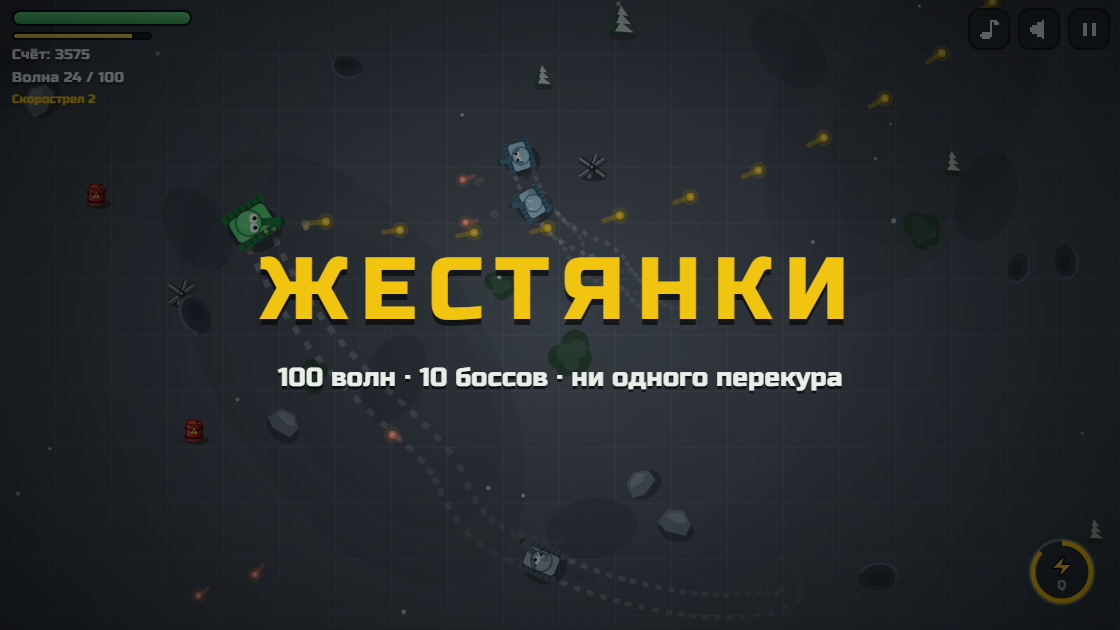
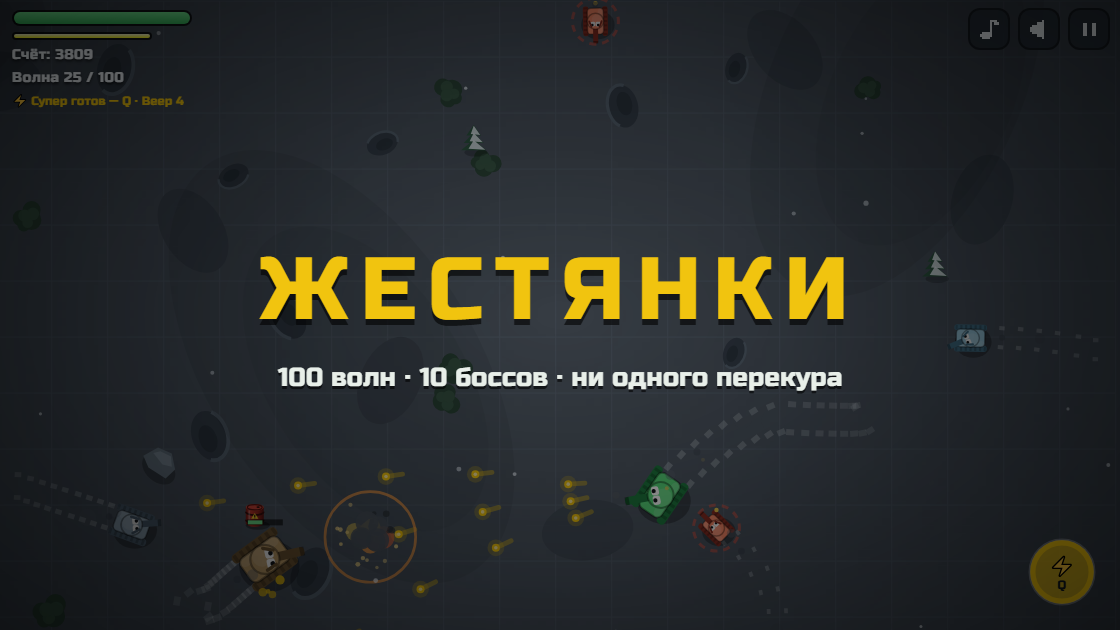
Обложка Яндекса пересобрана; анимация иконки без движущегося ствола
На старой обложке в углу HUD читалось «Тройной 6» — кадр снят до
переименования. Заодно в съёмке гасим объявление волны: крупное «ВОЛНА 26»
ложилось прямо на название.

tools/vk-art.js → tools/store-art.js: он теперь делает картинки не только
для ВК, но и обложку Яндекса, накладка с названием вынесена в общую
функцию и считает кегль от ширины кадра.

Анимированная иконка ВК: ствол больше не водит из стороны в сторону.
Он ходил поверх морды, и для игры 6+ движущееся орудие на экране загрузки —
лишний акцент. Теперь бегают зрачки, корпус тихо дышит. Варианты «ствол»
и «круг» остались в скрипте для сравнения.

diff --git a/tools/store-art.js b/tools/store-art.js
@@ -1,7 +1,11 @@
-// Картинки для вкладки «Оформление» в кабинете ВК.
-// Запуск: node tools/vk-art.js   → ВК/оформление/*.png
-//   большой сниппет  1120×630
-//   скриншоты        1200×600, минимум три, ВК показывает их на экране запуска в вебе
+// Витринные картинки для площадок — снимаем с настоящей игры.
+// Запуск: node tools/store-art.js            → всё сразу
+//         node tools/store-art.js snippet    → только сниппет ВК
+//         node tools/store-art.js cover      → только обложка Яндекса
+//   ВК/оформление/snippet-1120x630.png  большой сниппет
+//   ВК/оформление/screen-*.png          скриншоты 1200×600, минимум три,
+//                                       ВК показывает их на экране запуска в вебе
+//   Яндекс/cover_800x470.png            обложка игры в каталоге Яндекса
 // Снимаем с настоящей игры, как tools/shots.js, но в НАСТОЛЬНОМ режиме: без эмуляции
 // телефона, иначе поверх боя рисуются джойстик и кнопка огня, а ВК просит десктопный вид.
 // Боем правит бот: кружит вокруг цели, подбирает ящики, уворачивается от пуль.
@@ -69,10 +73,15 @@ async function shootScene(pg, s, file){
   await pg.waitForTimeout(1200);
   let best = -1, bestN = null;
   for(let i = 0; i < 22; i++){
-    const n = await pg.evaluate(() => ({
-      e: enemies.filter(x => !x.entering).length, b: bullets.length, p: particles.length,
-      boss: !!(boss && !boss.entering), play: state.mode === 'play'
-    }));
+    const n = await pg.evaluate(() => {
+      // объявление волны крупными буквами посреди экрана лезет на название
+      // и на сам бой — гасим его на каждом тике, кадр нужен чистый
+      try { if(typeof waveBanner !== 'undefined' && waveBanner) waveBanner.t = 0; } catch(e) {}
+      return {
+        e: enemies.filter(x => !x.entering).length, b: bullets.length, p: particles.length,
+        boss: !!(boss && !boss.entering), play: state.mode === 'play'
+      };
+    });
     const m = n.play ? n.e*2 + n.b + n.p*0.02 + (n.boss ? 8 : 0) : -1;
     if(m > best){ best = m; bestN = n; await pg.screenshot({ path: file }); }
     await pg.waitForTimeout(420);
@@ -90,14 +99,31 @@ async function openPage(b, width, height){
   return pg;
 }
 
-// `node tools/vk-art.js snippet` — пересобрать только сниппет, не гоняя все скриншоты
+// Название поверх кадра — им отличается витринная картинка от простого скриншота.
+// Кегль считаем от ширины, чтобы обложка 800 и сниппет 1120 выглядели одинаково.
+// Вешаем ДО съёмки: накладка статична, бой под ней продолжает жить, и цикл
+// «лучшего кадра» снимает её вместе с боем.
+const nazvanie = (W) => {
+  const sh = s => Math.round(s * W / 1120);
+  const d = document.createElement('div');
+  d.style.cssText = 'position:fixed;inset:0;z-index:9999;pointer-events:none;display:flex;'
+    + 'flex-direction:column;align-items:center;justify-content:center;'
+    + 'background:radial-gradient(ellipse at center,rgba(0,0,0,.34),rgba(0,0,0,.66))';
+  const F = "font-family:'Russo One',system-ui,sans-serif;";
+  d.innerHTML = `<div style="${F}font-size:${sh(88)}px;letter-spacing:${sh(12)}px;`
+    + `color:#f1c40f;text-shadow:0 ${sh(6)}px 0 rgba(0,0,0,.6)">ЖЕСТЯНКИ</div>`
+    + `<div style="${F}font-size:${sh(26)}px;color:#e8efe9;margin-top:${sh(18)}px;`
+    + `text-shadow:0 ${sh(3)}px 0 rgba(0,0,0,.6)">100 волн · 10 боссов · ни одного перекура</div>`;
+  document.body.appendChild(d);
+};
+
 const ONLY = process.argv[2] || '';
 
 (async () => {
   const b = await chromium.launch(LAUNCH);
 
   // ——— скриншоты 1200×600
-  if(ONLY !== 'snippet'){
+  if(ONLY === ''){
   const pg = await openPage(b, 1200, 600);
   for(const s of BATTLES){
     const file = path.join(OUT, s.file + '.png');
@@ -115,26 +141,25 @@ const ONLY = process.argv[2] || '';
   await pg.close();
   }
 
-  // ——— большой сниппет 1120×630: кадр боя с названием поверх, как обложка на Яндексе
+  // ——— большой сниппет ВК 1120×630: кадр боя с названием поверх
+  if(ONLY === '' || ONLY === 'snippet'){
   const pg2 = await openPage(b, 1120, 630);
   const snip = path.join(OUT, 'snippet-1120x630.png');
-  // накладку вешаем ДО съёмки: она статична, а бой под ней продолжает жить,
-  // и цикл «лучшего кадра» снимает её вместе с боем
-  await pg2.evaluate(() => {
-    const d = document.createElement('div');
-    d.style.cssText = 'position:fixed;inset:0;z-index:9999;pointer-events:none;display:flex;'
-      + 'flex-direction:column;align-items:center;justify-content:center;'
-      + 'background:radial-gradient(ellipse at center,rgba(0,0,0,.34),rgba(0,0,0,.66))';
-    d.innerHTML = '<div style="font-family:\'Russo One\',system-ui,sans-serif;font-size:88px;'
-      + 'letter-spacing:12px;color:#f1c40f;text-shadow:0 6px 0 rgba(0,0,0,.6)">ЖЕСТЯНКИ</div>'
-      + '<div style="font-family:\'Russo One\',system-ui,sans-serif;font-size:26px;'
-      + 'color:#e8efe9;margin-top:18px;text-shadow:0 3px 0 rgba(0,0,0,.6)">'
-      + '100 волн · 10 боссов · ни одного перекура</div>';
-    document.body.appendChild(d);
-  });
+  await pg2.evaluate(nazvanie, 1120);
   const r = await shootScene(pg2, { wave: 24, score: 3400 }, snip);
   console.log(`snippet-1120x630  волна 24 · врагов ${r.bestN.e} · пуль ${r.bestN.b} · вес ${r.best.toFixed(1)}`);
   await pg2.close();
+  }
+
+  // ——— обложка Яндекса 800×470: то же самое, только меньше и в свою папку
+  if(ONLY === '' || ONLY === 'cover'){
+  const pg3 = await openPage(b, 800, 470);
+  const cover = path.join(__dirname, '..', 'Яндекс', 'cover_800x470.png');
+  await pg3.evaluate(nazvanie, 800);
+  const rc = await shootScene(pg3, { wave: 24, score: 3400 }, cover);
+  console.log(`cover_800x470  волна 24 · врагов ${rc.bestN.e} · пуль ${rc.bestN.b} · вес ${rc.best.toFixed(1)}`);
+  await pg3.close();
+  }
 
   await b.close();
 })();

diff --git a/tools/vk-lottie-check.js b/tools/vk-lottie-check.js
@@ -6,42 +6,55 @@ const { chromium, LAUNCH } = require('./pw');
 const path = require('path');
 const fs = require('fs');
 
-const JSON_PATH = path.join(__dirname, '..', 'ВК', 'оформление', 'launch-icon.json');
+// Можно передать несколько файлов — каждый ляжет своей строкой, удобно сравнивать варианты:
+//   node tools/vk-lottie-check.js a.json b.json c.json
+const FILES = process.argv.slice(2);
+if(!FILES.length) FILES.push(path.join(__dirname, '..', 'ВК', 'оформление', 'launch-icon.json'));
 const PLAYER = path.join(__dirname, '..', 'node_modules', 'lottie-web', 'build', 'player', 'lottie.min.js');
+const KADROV = 6; // столько моментов петли показываем в строке
 
 (async () => {
-  const anim = fs.readFileSync(JSON_PATH, 'utf8');
+  const anims = FILES.map(f => ({ name: path.basename(f, '.json'), data: fs.readFileSync(f, 'utf8') }));
   const player = fs.readFileSync(PLAYER, 'utf8');
 
   const b = await chromium.launch(LAUNCH);
-  const pg = await b.newPage({ viewport: { width: 4 * 96, height: 96 }, deviceScaleFactor: 2 });
+  const pg = await b.newPage({
+    viewport: { width: KADROV * 96 + 150, height: anims.length * 96 }, deviceScaleFactor: 2
+  });
   const errs = []; pg.on('pageerror', e => errs.push(e.message));
 
   // фон ставим тот же, что пойдёт в поле «Цвет фона за иконкой» — проверяем заодно и его
-  await pg.setContent('<body style="margin:0;background:#181D23;display:flex">'
-    + [0, 1, 2, 3].map(i => `<div id="c${i}" style="width:96px;height:96px"></div>`).join('')
+  await pg.setContent('<body style="margin:0;background:#181D23;font:13px system-ui;color:#8fa">'
+    + anims.map((a, r) => '<div style="display:flex;align-items:center">'
+        + [...Array(KADROV)].map((_, i) => `<div id="c${r}_${i}" style="width:96px;height:96px"></div>`).join('')
+        + `<div style="padding-left:14px">${a.name}</div></div>`).join('')
     + '</body>');
   await pg.addScriptTag({ content: player });
-  await pg.evaluate(({ anim }) => {
-    const data = JSON.parse(anim);
-    window.__frames = data.op;
-    [0, 1, 2, 3].forEach(i => {
-      const a = lottie.loadAnimation({
-        container: document.getElementById('c' + i), renderer: 'svg',
-        loop: false, autoplay: false, animationData: JSON.parse(anim)
-      });
-      a.goToAndStop(Math.round(data.op * i / 4), true);
+  const got = await pg.evaluate(({ anims, KADROV }) => {
+    let figur = 0;
+    anims.forEach((a, r) => {
+      const data = JSON.parse(a.data);
+      for(let i = 0; i < KADROV; i++){
+        const an = lottie.loadAnimation({
+          container: document.getElementById(`c${r}_${i}`), renderer: 'svg',
+          loop: false, autoplay: false, animationData: JSON.parse(a.data)
+        });
+        an.goToAndStop(Math.round(data.op * i / KADROV), true);
+      }
     });
-  }, { anim });
+    figur = document.querySelectorAll('svg path, svg ellipse, svg rect').length;
+    return { svgs: document.querySelectorAll('svg').length, figur };
+  }, { anims, KADROV });
   await pg.waitForTimeout(600);
 
-  const svgs = await pg.evaluate(() => [...document.querySelectorAll('svg')].length);
-  const paths = await pg.evaluate(() => [...document.querySelectorAll('svg path, svg ellipse, svg rect')].length);
-  await pg.screenshot({ path: path.join(__dirname, 'lottie-check.png') });
+  const out = path.join(__dirname, 'lottie-check.png');
+  await pg.screenshot({ path: out });
   await b.close();
 
-  console.log('кадров в петле:', await Promise.resolve(60));
-  console.log('отрисовано svg:', svgs, '· фигур внутри:', paths);
+  console.log('строк:', anims.length, '· отрисовано svg:', got.svgs, '· фигур внутри:', got.figur);
   console.log('ошибки:', errs.length ? errs : 'нет');
-  if(svgs !== 4 || paths === 0) { console.log('ПЛОХО: проигрыватель не собрал анимацию'); process.exit(1); }
+  console.log('картинка:', out);
+  if(got.svgs !== anims.length * KADROV || got.figur === 0){
+    console.log('ПЛОХО: проигрыватель не собрал анимацию'); process.exit(1);
+  }
 })();

diff --git a/tools/vk-lottie.py b/tools/vk-lottie.py
@@ -1,16 +1,25 @@
 # Анимированная иконка для «Экрана запуска» в кабинете ВК.
-# Запуск: python tools/vk-lottie.py   → ВК/оформление/launch-icon.json
+# Запуск: python tools/vk-lottie.py [вариант] [куда.json]
+#   по умолчанию: вариант «глаза» → ВК/оформление/launch-icon.json
 # Требования ВК: Lottie JSON, 96×96, не больше 24 КБ.
-# Рисуем тот же танк, что на иконке, вид сверху; башня медленно водит стволом
-# из стороны в сторону — это и есть «состояние загрузки». Цвета сняты пипеткой
-# с icon-512.png, чтобы анимация и статичная иконка были одним и тем же танком.
+# Рисуем тот же танк, что на иконке, вид сверху; цвета сняты пипеткой с icon-512.png,
+# чтобы анимация и статичная иконка были одним и тем же танком.
+#
+# Варианты движения:
+#   глаза — зрачки бегают из стороны в сторону, танк тихо дышит. Ствол неподвижен:
+#           игра детская, 6+, и водящее стволом орудие на экране загрузки — лишнее.
+#   круг  — танк медленно поворачивается кругом, как радар.
+#   ствол — башня водит стволом; первый вариант, оставлен для сравнения.
 import json, os, sys
 
 try: sys.stdout.reconfigure(encoding='utf-8')
 except Exception: pass
 
 ROOT = os.path.dirname(os.path.dirname(os.path.abspath(__file__)))
-OUT = os.path.join(ROOT, 'ВК', 'оформление', 'launch-icon.json')
+VARIANT = sys.argv[1] if len(sys.argv) > 1 else 'глаза'
+OUT = sys.argv[2] if len(sys.argv) > 2 else os.path.join(ROOT, 'ВК', 'оформление', 'launch-icon.json')
+if VARIANT not in ('глаза', 'круг', 'ствол'):
+    sys.exit('вариант: глаза | круг | ствол')
 
 def rgb(h):
     h = h.lstrip('#')
@@ -46,43 +55,60 @@ def group(shapes, color):
 # рисунка смещена вверх; опускаем слой и ужимаем, иначе дуло срезает верхний край
 CENTR, MASHTAB = [48, 58, 0], 95
 
-def layer(ind, name, shapes, rot=None):
-    r = {"a": 0, "k": 0} if rot is None else rot
+def layer(ind, name, shapes, rot=None, pos=None, scale=None):
     return {"ddd": 0, "ind": ind, "ty": 4, "nm": name, "sr": 1, "ao": 0,
-            "ks": {"o": {"a": 0, "k": 100}, "r": r,
-                   "p": {"a": 0, "k": CENTR}, "a": {"a": 0, "k": [0, 0, 0]},
-                   "s": {"a": 0, "k": [MASHTAB, MASHTAB, 100]}},
+            "ks": {"o": {"a": 0, "k": 100},
+                   "r": rot or {"a": 0, "k": 0},
+                   "p": pos or {"a": 0, "k": CENTR},
+                   "a": {"a": 0, "k": [0, 0, 0]},
+                   "s": scale or {"a": 0, "k": [MASHTAB, MASHTAB, 100]}},
             "shapes": shapes, "ip": 0, "op": DUR, "st": 0, "bm": 0}
 
-# ствол ведёт влево-вправо и возвращается — петля без рывка на стыке
+# петли строим так, чтобы последний кадр совпадал с первым — иначе на стыке рывок
 EASE_I, EASE_O = {"x": [0.4], "y": [1]}, {"x": [0.6], "y": [0]}
-SWEEP = {"a": 1, "k": [
-    {"t": 0,      "s": [-24], "i": EASE_I, "o": EASE_O},
-    {"t": DUR//2, "s": [24],  "i": EASE_I, "o": EASE_O},
-    {"t": DUR,    "s": [-24]},
-]}
+
+def tuda_syuda(a, b, key='s'):
+    """Туда и обратно за петлю, с замедлением на краях."""
+    return {"a": 1, "k": [
+        {"t": 0,      key: list(a), "i": EASE_I, "o": EASE_O},
+        {"t": DUR//2, key: list(b), "i": EASE_I, "o": EASE_O},
+        {"t": DUR,    key: list(a)},
+    ]}
+
+SWEEP = tuda_syuda([-24], [24])                                  # ствол влево-вправо
+KRUG  = {"a": 1, "k": [{"t": 0, "s": [0], "i": {"x": [0.5], "y": [0.5]},
+                        "o": {"x": [0.5], "y": [0.5]}}, {"t": DUR, "s": [360]}]}
+VZGLYAD = tuda_syuda([CENTR[0] - 3.5, CENTR[1], 0], [CENTR[0] + 3.5, CENTR[1], 0])
+DYSHIT  = tuda_syuda([MASHTAB - 3, MASHTAB - 3, 100], [MASHTAB, MASHTAB, 100])
+
+rot_vse  = KRUG if VARIANT == 'круг' else None                   # крутится весь танк
+rot_stvl = SWEEP if VARIANT == 'ствол' else rot_vse
+dyshit   = DYSHIT if VARIANT == 'глаза' else None
+vzglyad  = VZGLYAD if VARIANT == 'глаза' else None
 
 # в Lottie первая фигура в списке лежит СВЕРХУ, поэтому зрачки идут раньше белков
-glaza  = layer(1, 'глаза', [
-    group([circle(7, (-6, -5)),  circle(7, (10, -5))], ZRACHOK),
-    group([circle(15, (-8, -7)), circle(15, (8, -7))], BELY),
-])
-bashnya = layer(2, 'башня', [
+zrachki = layer(1, 'зрачки', [group([circle(7, (-6, -5)), circle(7, (10, -5))], ZRACHOK)],
+                rot=rot_vse, pos=vzglyad, scale=dyshit)
+belki   = layer(2, 'белки',  [group([circle(15, (-8, -7)), circle(15, (8, -7))], BELY)],
+                rot=rot_vse, scale=dyshit)
+bashnya = layer(3, 'башня', [
     group([rect((11, 40), (0, -26), 5)], TEMNY),
     group([circle(11, (0, -46))], ZOLOTO),
-], rot=SWEEP)
-korpus = layer(3, 'корпус', [group([rect((36, 58), (0, 2), 13)], ZELEN)])
-guseni = layer(4, 'гусеницы', [
+], rot=rot_stvl, scale=dyshit)
+korpus = layer(4, 'корпус', [group([rect((36, 58), (0, 2), 13)], ZELEN)],
+               rot=rot_vse, scale=dyshit)
+guseni = layer(5, 'гусеницы', [
     group([rect((12, 58), (-17, 2), 5), rect((12, 58), (17, 2), 5)], TEMNY),
-])
+], rot=rot_vse, scale=dyshit)
 
 doc = {"v": "5.7.4", "fr": FR, "ip": 0, "op": DUR, "w": 96, "h": 96,
-       "nm": "zhestyanki-launch", "ddd": 0, "assets": [],
-       "layers": [glaza, bashnya, korpus, guseni]}
+       "nm": "zhestyanki-launch-" + VARIANT, "ddd": 0, "assets": [],
+       "layers": [zrachki, belki, bashnya, korpus, guseni]}
 
 os.makedirs(os.path.dirname(OUT), exist_ok=True)
 with open(OUT, 'w', encoding='utf-8') as f:
     json.dump(doc, f, separators=(',', ':'), ensure_ascii=False)
 
 size = os.path.getsize(OUT)
-print(f'launch-icon.json  96x96  {size/1024:.1f} КБ  (лимит ВК 24 КБ) — {"ок" if size < 24*1024 else "СЛИШКОМ БОЛЬШОЙ"}')
+print(f'{os.path.basename(OUT):22} вариант «{VARIANT}»  96x96  {size/1024:.1f} КБ '
+      f'(лимит ВК 24 КБ) — {"ок" if size < 24*1024 else "СЛИШКОМ БОЛЬШОЙ"}')

diff --git a/ROADMAP.md b/ROADMAP.md
@@ -89,6 +89,10 @@
   место, где осталось старое имя бонуса; поле карточки «Как играть» юзер поправил сам
   (оно живёт у Яндекса, в архиве его нет, перезаливки не требует).
 
+Отдельно от архива: **обложка `Яндекс/cover_800x470.png` пересобрана 09.10** — на старой
+в углу HUD читалось «Тройной 6», и поверх кадра лежало объявление «ВОЛНА 26». Новую
+надо залить в карточку руками, это поле карточки, а не файл архива.
+
 **ВК** — приложение создано юзером:
 
 - id **54811952**, адрес `app54811952`, тип «Игра», жанр «Аркады», слоган «Твой танк против
@@ -145,6 +149,10 @@
 | `tools/sfx-ab.js`, `sfx-ab2.js`, `sfx-set.js`, `sfx-bright.js` | рендерят WAV «было/стало» и степени яркости; игру не трогают |
 | `tools/story-video.js` | записывает сравнение версий заставки одним роликом |
 | `tools/story-demo.js` | записывает заставки выбранных глав с заданным скином |
+| `tools/store-art.js` | витринные картинки с настоящей игры: сниппет ВК 1120×630, скриншоты 1200×600, обложка Яндекса 800×470. Снимает в настольном режиме (в телефонном поверх боя рисуется джойстик), гасит объявление волны, выбирает самый «живой» кадр |
+| `tools/vk-icons.py` | иконки ВК 576/278/150/32 из `icon-512.png` |
+| `tools/vk-lottie.py` | анимированная иконка 96×96 для экрана запуска ВК, три варианта движения |
+| `tools/vk-lottie-check.js` | прогоняет Lottie настоящим проигрывателем и раскладывает кадры петли в картинку: кривой JSON площадка примет молча |
 
 `Звуки-образцы/` — mp3 из Battle City для **замеров**, лежат локально и в репозиторий не идут:
 звуки из чужих игр мы не используем, только измеряем их характеристики.

diff --git a/ВК/оформление/README.md b/ВК/оформление/README.md
@@ -2,7 +2,7 @@
 
 Кабинет: <https://dev.vk.ru/ru/admin/app-settings/54811952/design>.
 Всё в этой папке собрано скриптами, пересобрать: `python tools/vk-icons.py`,
-`node tools/vk-art.js`, `python tools/vk-lottie.py`.
+`node tools/store-art.js`, `python tools/vk-lottie.py`.
 
 ## Вкладка «Иконки»
 
@@ -58,13 +58,21 @@
 
 | Поле ВК | Значение |
 |---|---|
-| Анимированная иконка | `launch-icon.json` — Lottie, 96×96, 3.2 КБ при лимите 24 КБ |
+| Анимированная иконка | `launch-icon.json` — Lottie, 96×96, 4.3 КБ при лимите 24 КБ |
 | Анимация иконки | включить тумблер, иначе анимация не заработает |
 | Цвет фона за иконкой | `#181D23` |
 
-Анимация — тот же танк, ствол медленно водит из стороны в сторону, петля на две секунды.
+Анимация — тот же танк: зрачки бегают из стороны в сторону, корпус тихо дышит,
+ствол неподвижен. Петля на две секунды.
 Цвет `#181D23` снят пипеткой с фона самой иконки, так что иконка сольётся с фоном
 без видимого квадрата вокруг.
+
+**Почему ствол неподвижен.** Первый вариант водил стволом — он остался в скрипте
+под именем «ствол». Отказались по двум причинам: ствол ходит поверх морды и это
+выглядит неряшливо, а для игры 6+ движущееся орудие на экране загрузки — лишний акцент.
+Третий вариант, «круг» (танк поворачивается целиком, как радар), выглядит сумбурно.
+Сравнить варианты: `python tools/vk-lottie.py круг куда.json` и
+`node tools/vk-lottie-check.js файл1.json файл2.json` — положит их строками в одну картинку.
 
 Поле необязательное: если анимацию не ставить, ВК покажет маленькую иконку неподвижно.
 

diff --git a/ВК/README.md b/ВК/README.md
@@ -53,5 +53,5 @@
 
 Все картинки, ролик и анимированная иконка под вкладки «Оформление» — в подпапке
 [оформление/](оформление/README.md): там таблица «какой файл в какое поле» и размеры,
-которые требует ВК. Пересобираются скриптами `tools/vk-icons.py`, `tools/vk-art.js`,
+которые требует ВК. Пересобираются скриптами `tools/vk-icons.py`, `tools/store-art.js`,
 `tools/vk-lottie.py`.
